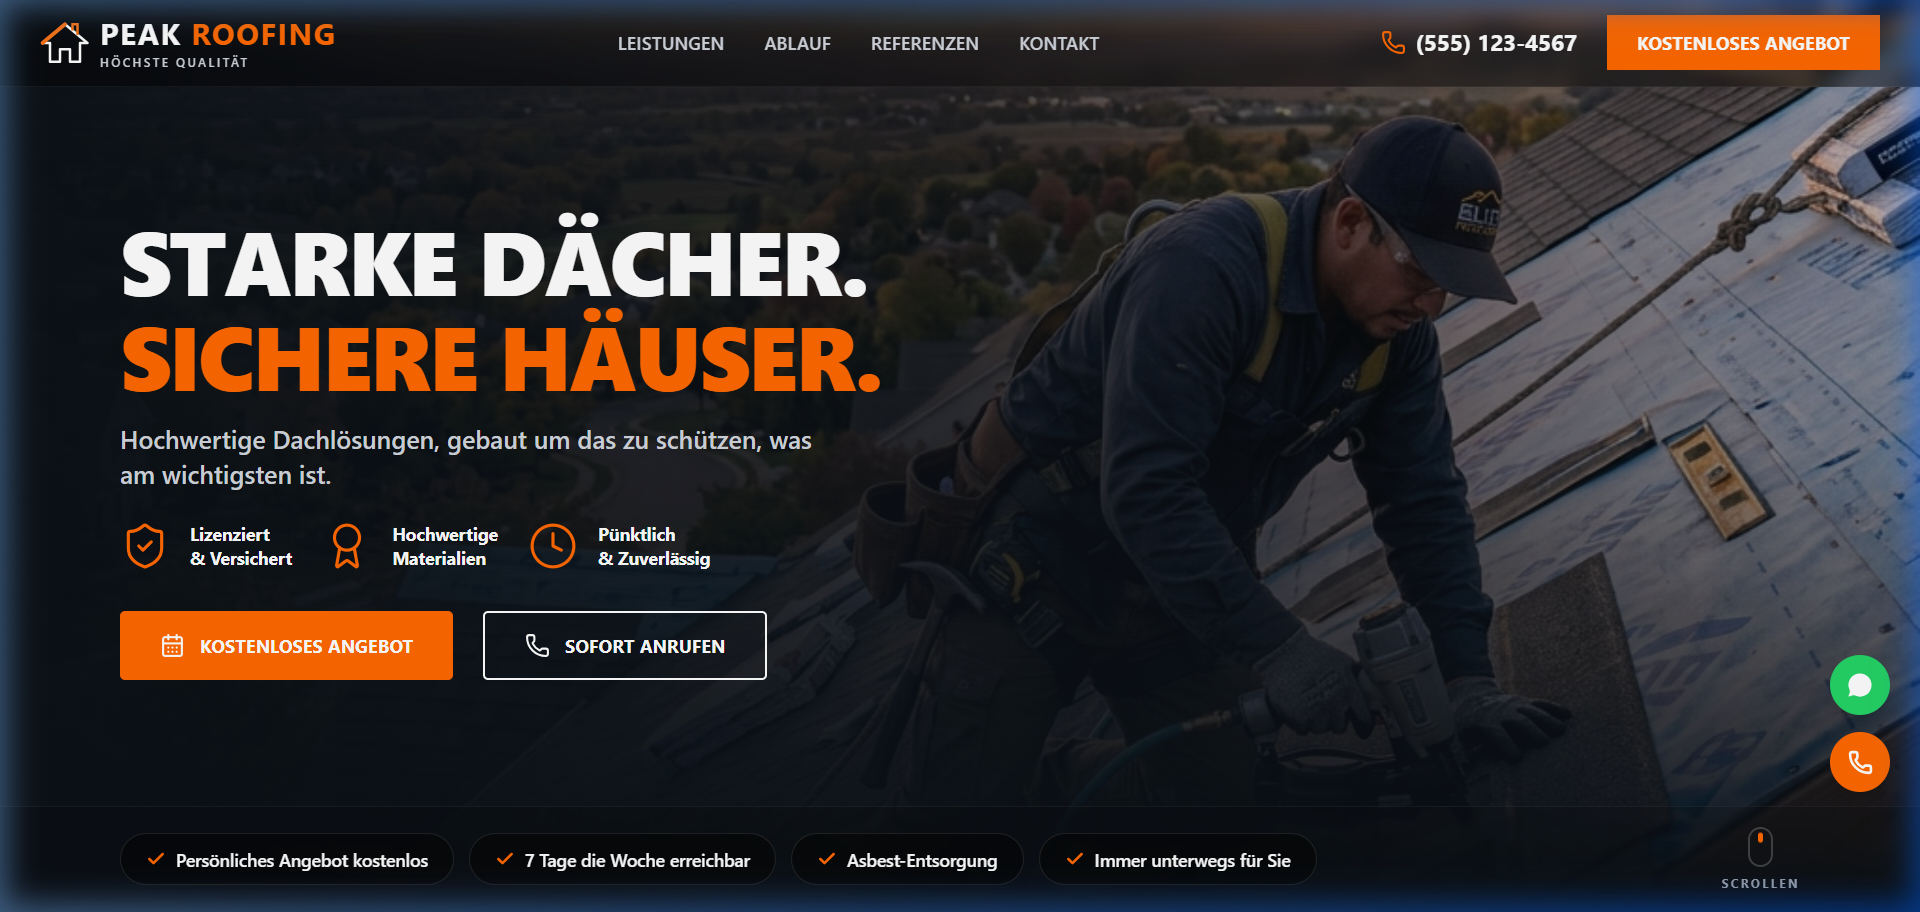
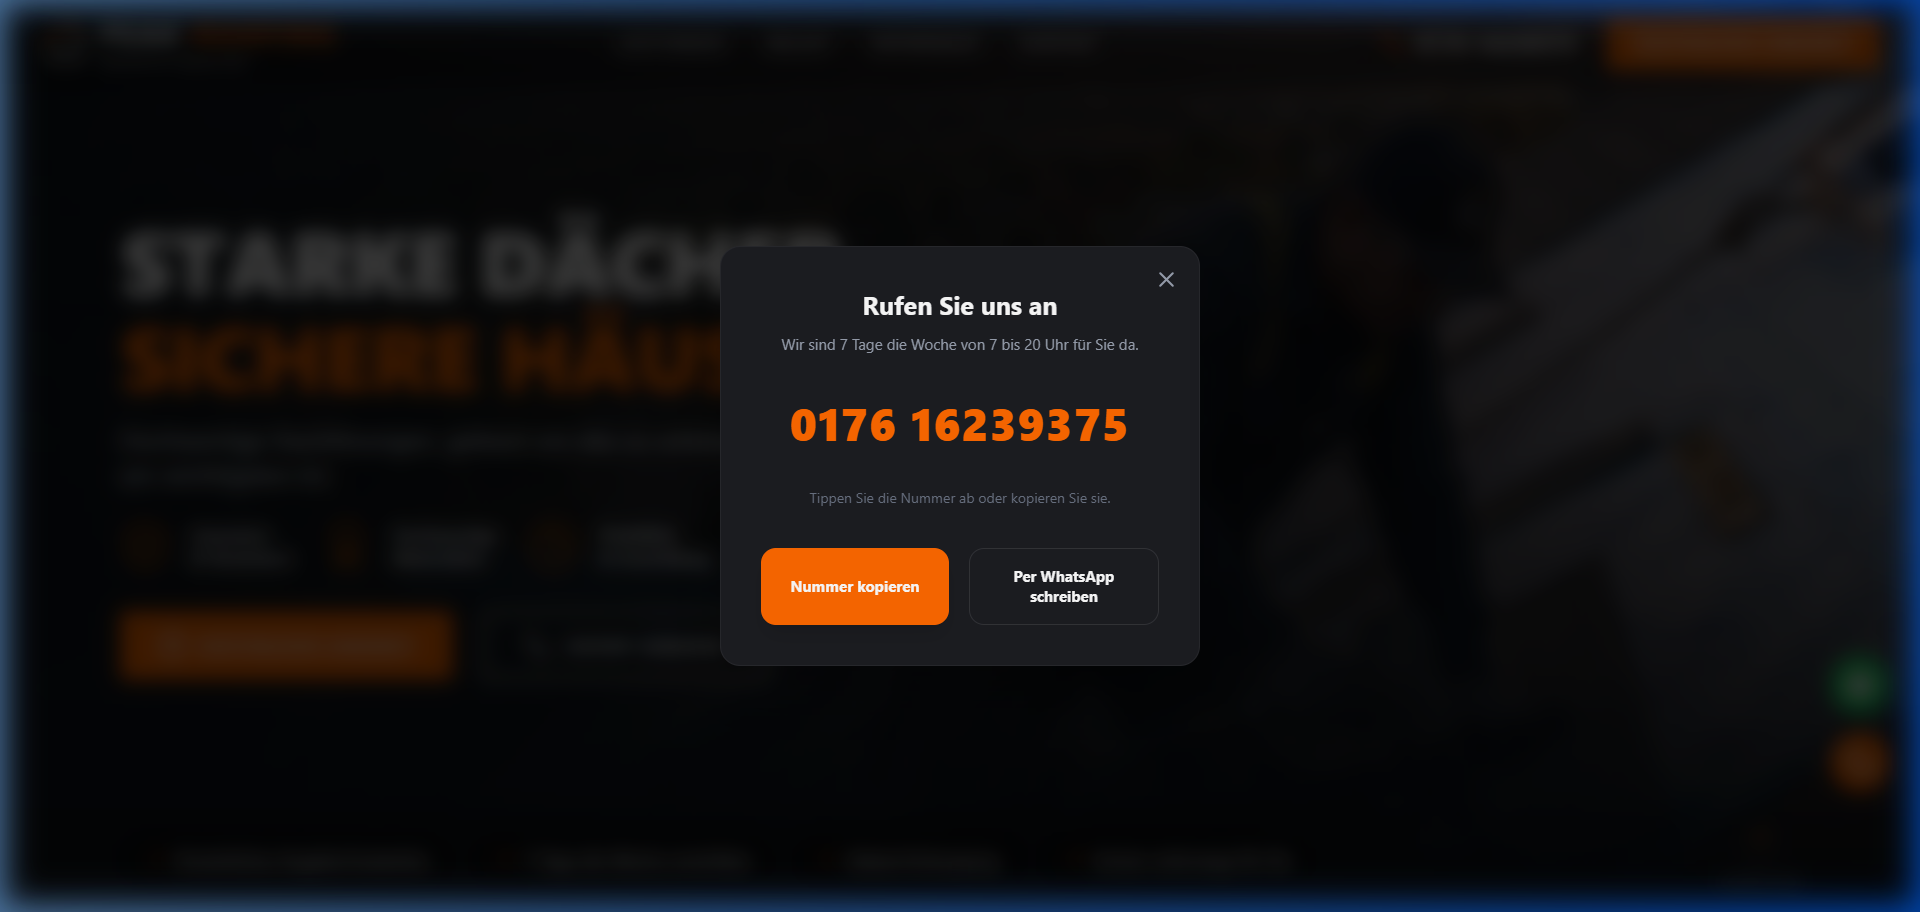
Implement interactive phone call modal popup with copying and WhatsApp options in theme orange

diff --git a/src/App.tsx b/src/App.tsx
@@ -1,3 +1,4 @@
+import { useState } from 'react';
 import {
   Award,
   CalendarDays,
@@ -7,9 +8,19 @@ import {
   Phone,
   Play,
   ShieldCheck,
+  X,
 } from 'lucide-react';
 
 export default function App() {
+  const [isModalOpen, setIsModalOpen] = useState(false);
+  const [copied, setCopied] = useState(false);
+
+  const handleCopy = () => {
+    navigator.clipboard.writeText('0176 16239375');
+    setCopied(true);
+    setTimeout(() => setCopied(false), 2000);
+  };
+
   return (
     <div className="min-h-screen font-sans text-white bg-[#0d131a] flex flex-col relative">
       <div 
@@ -62,9 +73,12 @@ export default function App() {
 
         {/* Right CTA */}
         <div className="flex items-center gap-6">
-          <div className="hidden md:flex items-center gap-2 font-bold text-lg">
+          <div 
+            onClick={() => setIsModalOpen(true)}
+            className="hidden md:flex items-center gap-2 font-bold text-lg cursor-pointer hover:text-orange-500 transition-colors"
+          >
             <Phone className="w-5 h-5 text-orange-500" />
-            <span>(555) 123-4567</span>
+            <span>0176 16239375</span>
           </div>
           <button className="bg-orange-500 hover:bg-orange-600 text-white px-6 py-3 font-bold text-sm tracking-wide transition-colors">
             KOSTENLOSES ANGEBOT
@@ -110,13 +124,13 @@ export default function App() {
               <CalendarDays className="w-5 h-5" />
               KOSTENLOSES ANGEBOT
             </button>
-            <a 
-              href="tel:(555) 123-4567" 
-              className="flex items-center justify-center gap-3 bg-transparent border-2 border-white hover:bg-white/10 text-white px-8 py-4 font-bold text-sm tracking-wide transition-colors rounded-sm no-underline"
+            <button 
+              onClick={() => setIsModalOpen(true)}
+              className="flex items-center justify-center gap-3 bg-transparent border-2 border-white hover:bg-white/10 text-white px-8 py-4 font-bold text-sm tracking-wide transition-colors rounded-sm cursor-pointer"
             >
               <Phone className="w-5 h-5" />
               SOFORT ANRUFEN
-            </a>
+            </button>
           </div>
         </div>
       </main>
@@ -155,7 +169,7 @@ export default function App() {
       <div className="fixed bottom-24 right-6 z-50 flex flex-col gap-3.5">
         {/* WhatsApp Button */}
         <a 
-          href="https://wa.me/5551234567" 
+          href="https://wa.me/4917616239375" 
           target="_blank" 
           rel="noopener noreferrer"
           className="w-12 h-12 bg-[#25D366] hover:bg-[#20ba5a] rounded-full flex items-center justify-center shadow-lg transition-transform hover:scale-110 duration-200"
@@ -165,14 +179,68 @@ export default function App() {
         </a>
 
         {/* Call Button */}
-        <a 
-          href="tel:(555) 123-4567" 
-          className="w-12 h-12 bg-orange-500 hover:bg-orange-600 text-white rounded-full flex items-center justify-center shadow-lg transition-transform hover:scale-110 duration-200"
+        <button 
+          onClick={() => setIsModalOpen(true)}
+          className="w-12 h-12 bg-orange-500 hover:bg-orange-600 text-white rounded-full flex items-center justify-center shadow-lg transition-transform hover:scale-110 duration-200 cursor-pointer"
           aria-label="Telefonanruf"
         >
           <Phone className="w-5 h-5 stroke-[2.5]" />
-        </a>
+        </button>
       </div>
+
+      {/* Phone Call Modal Popup */}
+      {isModalOpen && (
+        <div className="fixed inset-0 z-[100] bg-black/75 backdrop-blur-sm flex items-center justify-center p-4">
+          <div className="bg-[#1c1d22] w-full max-w-sm rounded-2xl border border-white/5 p-8 relative shadow-2xl animate-in fade-in zoom-in-95 duration-200">
+            {/* Close button */}
+            <button 
+              onClick={() => setIsModalOpen(false)}
+              className="absolute top-4 right-4 text-gray-400 hover:text-white transition-colors cursor-pointer"
+              aria-label="Schließen"
+            >
+              <X className="w-5 h-5" />
+            </button>
+
+            {/* Title */}
+            <h3 className="text-xl font-bold text-center text-white mb-2">
+              Rufen Sie uns an
+            </h3>
+
+            {/* Subtitle */}
+            <p className="text-xs text-gray-400 text-center mb-8 px-4 leading-relaxed">
+              Wir sind 7 Tage die Woche von 7 bis 20 Uhr für Sie da.
+            </p>
+
+            {/* Big Orange Phone Number */}
+            <div className="text-4xl font-extrabold text-center text-orange-500 mb-8 tracking-wide">
+              0176 16239375
+            </div>
+
+            {/* Explanatory text */}
+            <p className="text-[0.7rem] text-gray-500 text-center mb-8">
+              Tippen Sie die Nummer ab oder kopieren Sie sie.
+            </p>
+
+            {/* Buttons */}
+            <div className="flex gap-4">
+              <button 
+                onClick={handleCopy}
+                className="flex-1 bg-orange-500 hover:bg-orange-600 text-white text-xs font-bold py-3.5 px-4 rounded-xl transition-all shadow-lg active:scale-[0.98] cursor-pointer"
+              >
+                {copied ? 'Kopiert!' : 'Nummer kopieren'}
+              </button>
+              <a 
+                href="https://wa.me/4917616239375"
+                target="_blank"
+                rel="noopener noreferrer"
+                className="flex-1 bg-transparent border border-white/10 hover:bg-white/5 text-white text-xs font-bold py-3.5 px-4 rounded-xl text-center no-underline transition-all active:scale-[0.98]"
+              >
+                Per WhatsApp schreiben
+              </a>
+            </div>
+          </div>
+        </div>
+      )}
     </div>
   );
 }